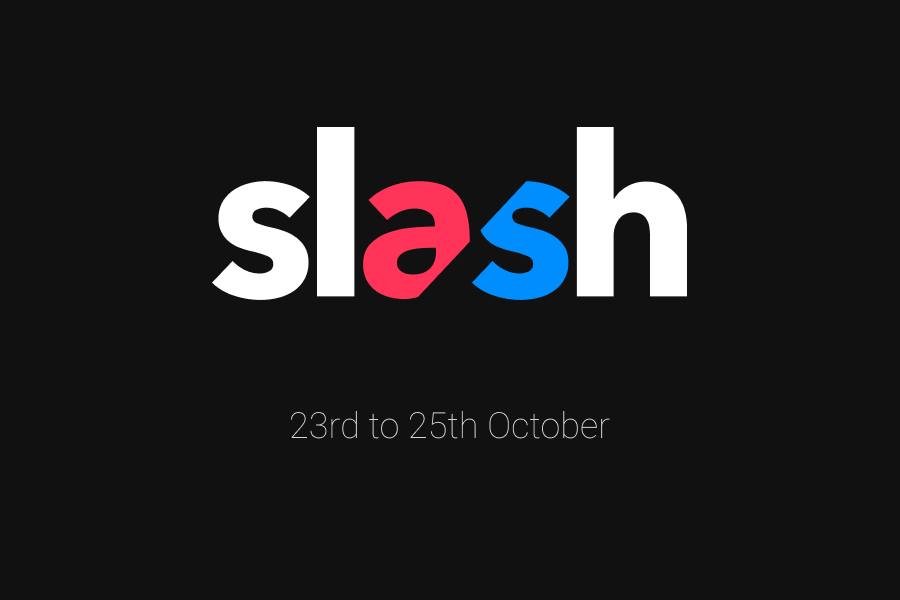
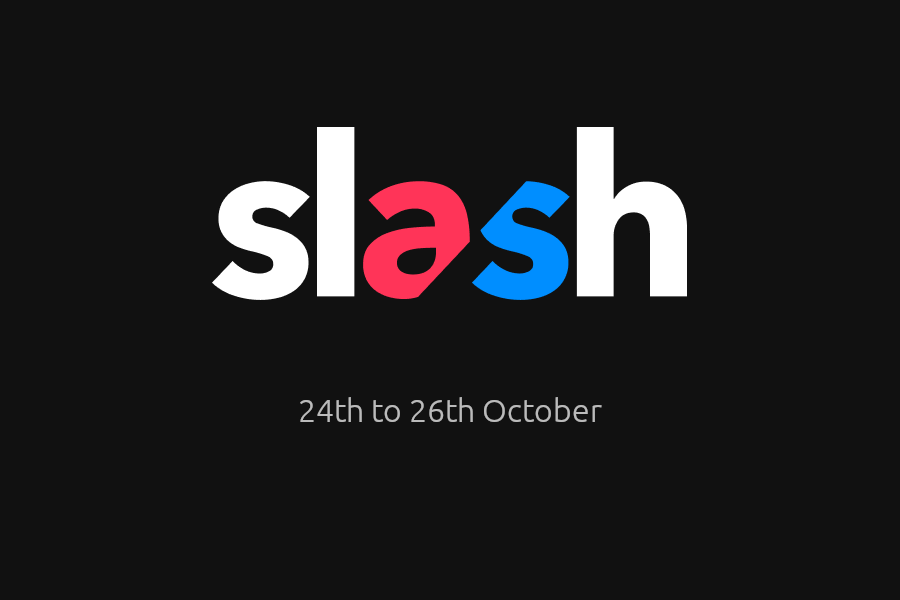
Fix: Change dates

Changed region(s): [[0.3111, 0.66, 0.6844, 0.75]]

diff --git a/index.html b/index.html
@@ -72,9 +72,9 @@
       <img src='/static/logo.svg' alt='Slash logo'>
       <p class='subtitle'>The Online Cryptic Hunt</p>
       <div class='dates'>
-        <time datetime="2020-10-23">23<sup>rd</sup> October</time>
+        <time datetime="2020-10-23">24<sup>th</sup> October</time>
         &ndash;
-        <time datetime="2020-10-25">25<sup>th</sup> October</time>
+        <time datetime="2020-10-25">26<sup>th</sup> October</time>
       </div>
     </section>
 
@@ -86,8 +86,15 @@
     <section class='content'>
       <section>
         <h1>About</h1>
-        <p>Slash is a cryptic hunt being organized by <a href="https://ieee.iiitd.edu.in" target="_blank" rel="noopener">IEEE IIITD</a> in collaboration with Women in Technology.</p>
-        <p>2 days. 36 hours. Players from all over the world will be presented with text-based questions of increasing difficulty at each level. The answer's hunt will take them all over the internet.
+        <p>
+          Slash is a cryptic hunt being organized by
+          <a href="https://ieee.iiitd.edu.in" target="_blank" rel="noopener">IEEE IIITD</a>
+          in collaboration with Women in Technology.
+        </p>
+        <p>
+          2 days. 36 hours. Starting at 12PM IST on the 24th of October.
+          Players from all over the world will be presented with text-based questions
+          of increasing difficulty at each level. The answer's hunt will take them all over the internet.
         </p>
       </section>
 
